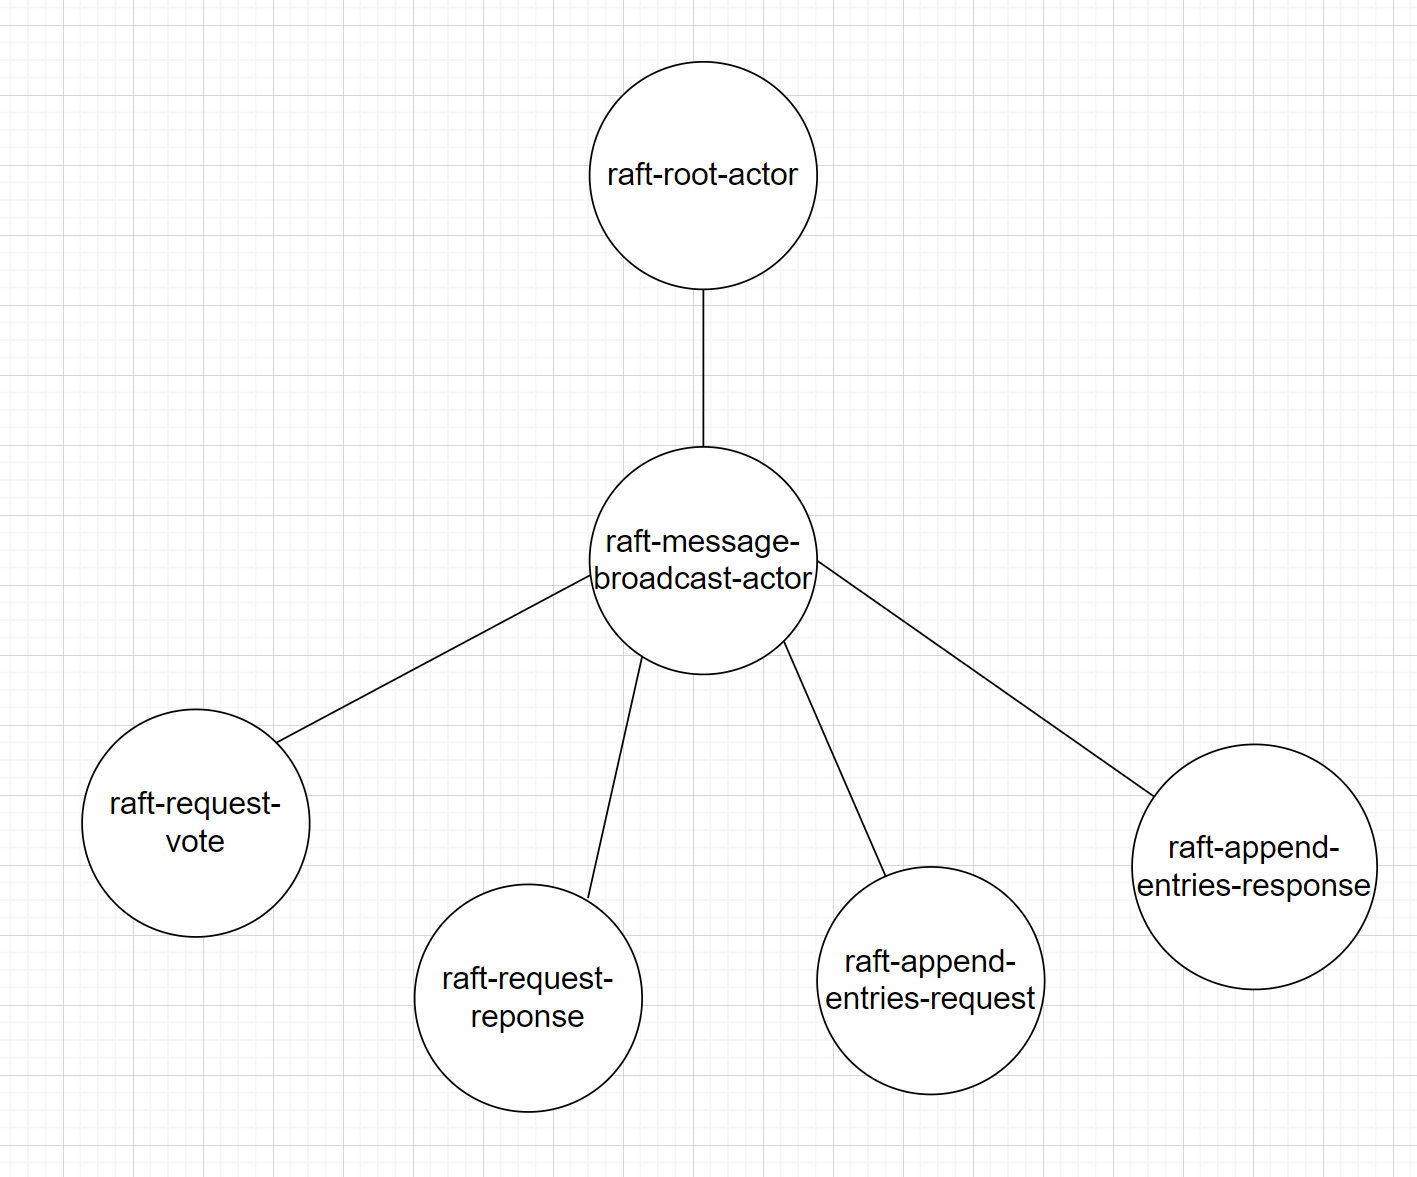
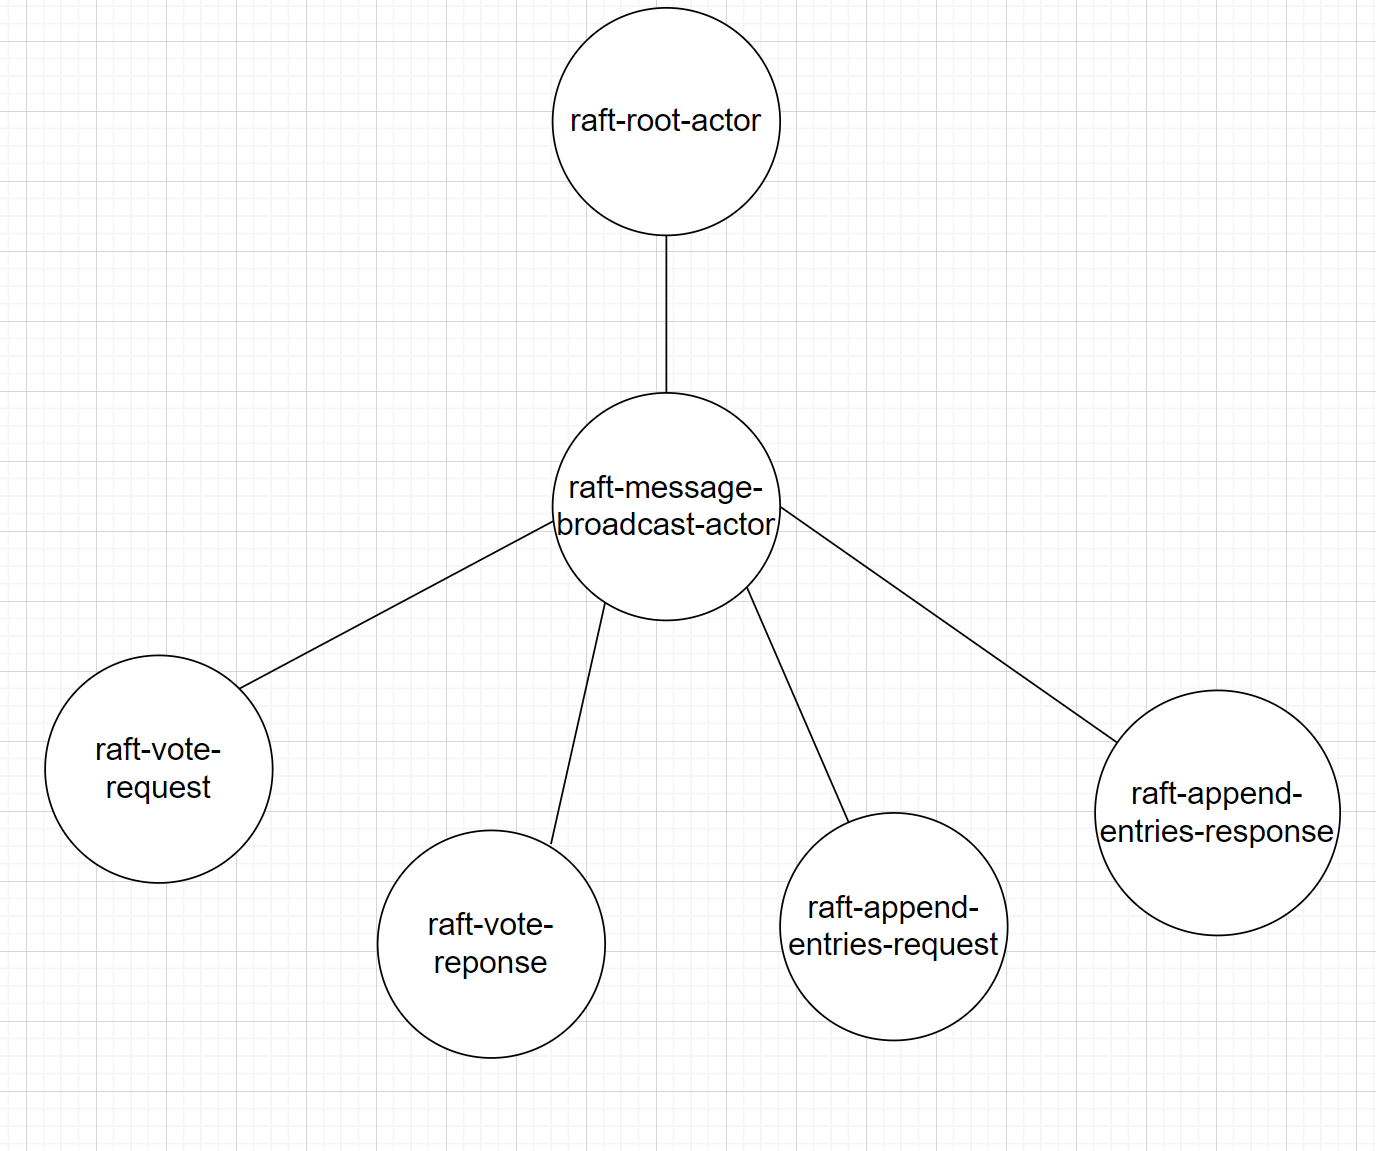
Update actor-system in README.

diff --git a/README.md b/README.md
@@ -15,7 +15,7 @@ The purpose of this project is to build state machine replication with total ord
     ![actor-system.png](/results/actor-system.png)
         - ```raft-root-actor``` - is a core actor represented as a [RaftActor](/src/RaftCore/Actors/RaftActor.cs) class, and is created in a single instance.
         - ```raft-message-broadcast-actor``` - is created in a single instance by ```raft-root-actor``` and is represented [MessageBroadcastActor](/src/RaftCore/Actors/MessageBroadcastActor.cs) class, which is responsible for communication.
-        - ```raft-request-vote```, ```raft-request-reponse```, ```raft-append-entries-request```, ```raft-append-entries-response``` - actors that are the instances of [MessageDispatcherActor](/src/RaftCore/Actors/MessageDispatcherActor.cs) class. They are all responsible for getting the grpc client for the correct node and dispatching needed request. All of these actors are created and supervised by [MessageBroadcastActor](/src/RaftCore/Actors/MessageBroadcastActor.cs) and for each request a new [MessageDispatcherActor](/src/RaftCore/Actors/MessageDispatcherActor.cs) is created and is stopped right after it sends the request. Note, that if the request fails ex. because a node is unavailable, the actor will fail and propagate error to the father [MessageBroadcastActor](/src/RaftCore/Actors/MessageBroadcastActor.cs), which would just stop the actor. In a default supervision behavior father restart the actor, that's why we need to set the supervision strategy to ```SupervisorStrategy.StoppingStrategy```, check the ```Props()``` of the [MessageBroadcastActor](/src/RaftCore/Actors/MessageBroadcastActor.cs).
+        - ```raft-vote-request```, ```raft-vote-reponse```, ```raft-append-entries-request```, ```raft-append-entries-response``` - actors that are the instances of [MessageDispatcherActor](/src/RaftCore/Actors/MessageDispatcherActor.cs) class. They are all responsible for getting the grpc client for the correct node and dispatching needed request. All of these actors are created and supervised by [MessageBroadcastActor](/src/RaftCore/Actors/MessageBroadcastActor.cs) and for each request a new [MessageDispatcherActor](/src/RaftCore/Actors/MessageDispatcherActor.cs) is created and is stopped right after it sends the request. Note, that if the request fails ex. because a node is unavailable, the actor will fail and propagate error to the father [MessageBroadcastActor](/src/RaftCore/Actors/MessageBroadcastActor.cs), which would just stop the actor. In a default supervision behavior father restart the actor, that's why we need to set the supervision strategy to ```SupervisorStrategy.StoppingStrategy```, check the ```Props()``` of the [MessageBroadcastActor](/src/RaftCore/Actors/MessageBroadcastActor.cs).
     - One of the edge cases of the Raft protocol is to ensure that the leader doesn't commit log entry from the previous term:
       ![leader-cannot-commit-prev-term.png](/results/leader-cannot-commit-prev-term.png)
 
